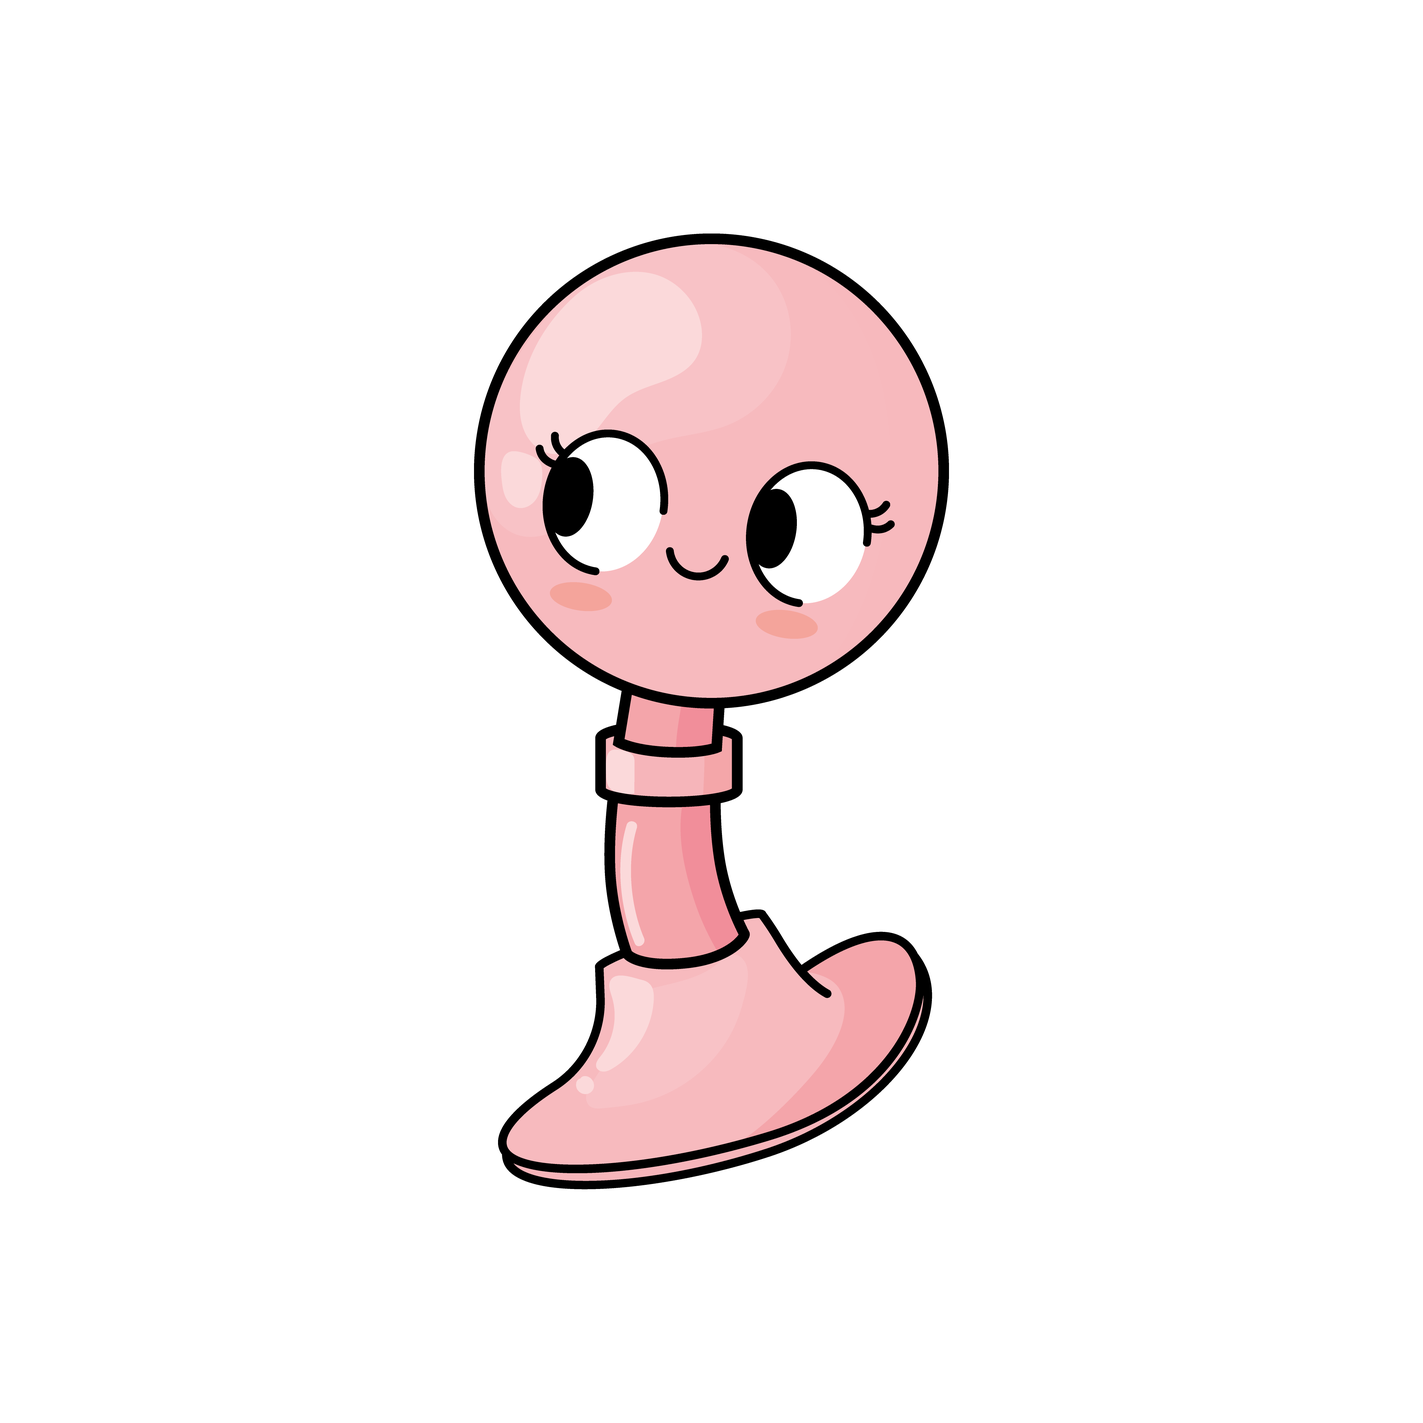
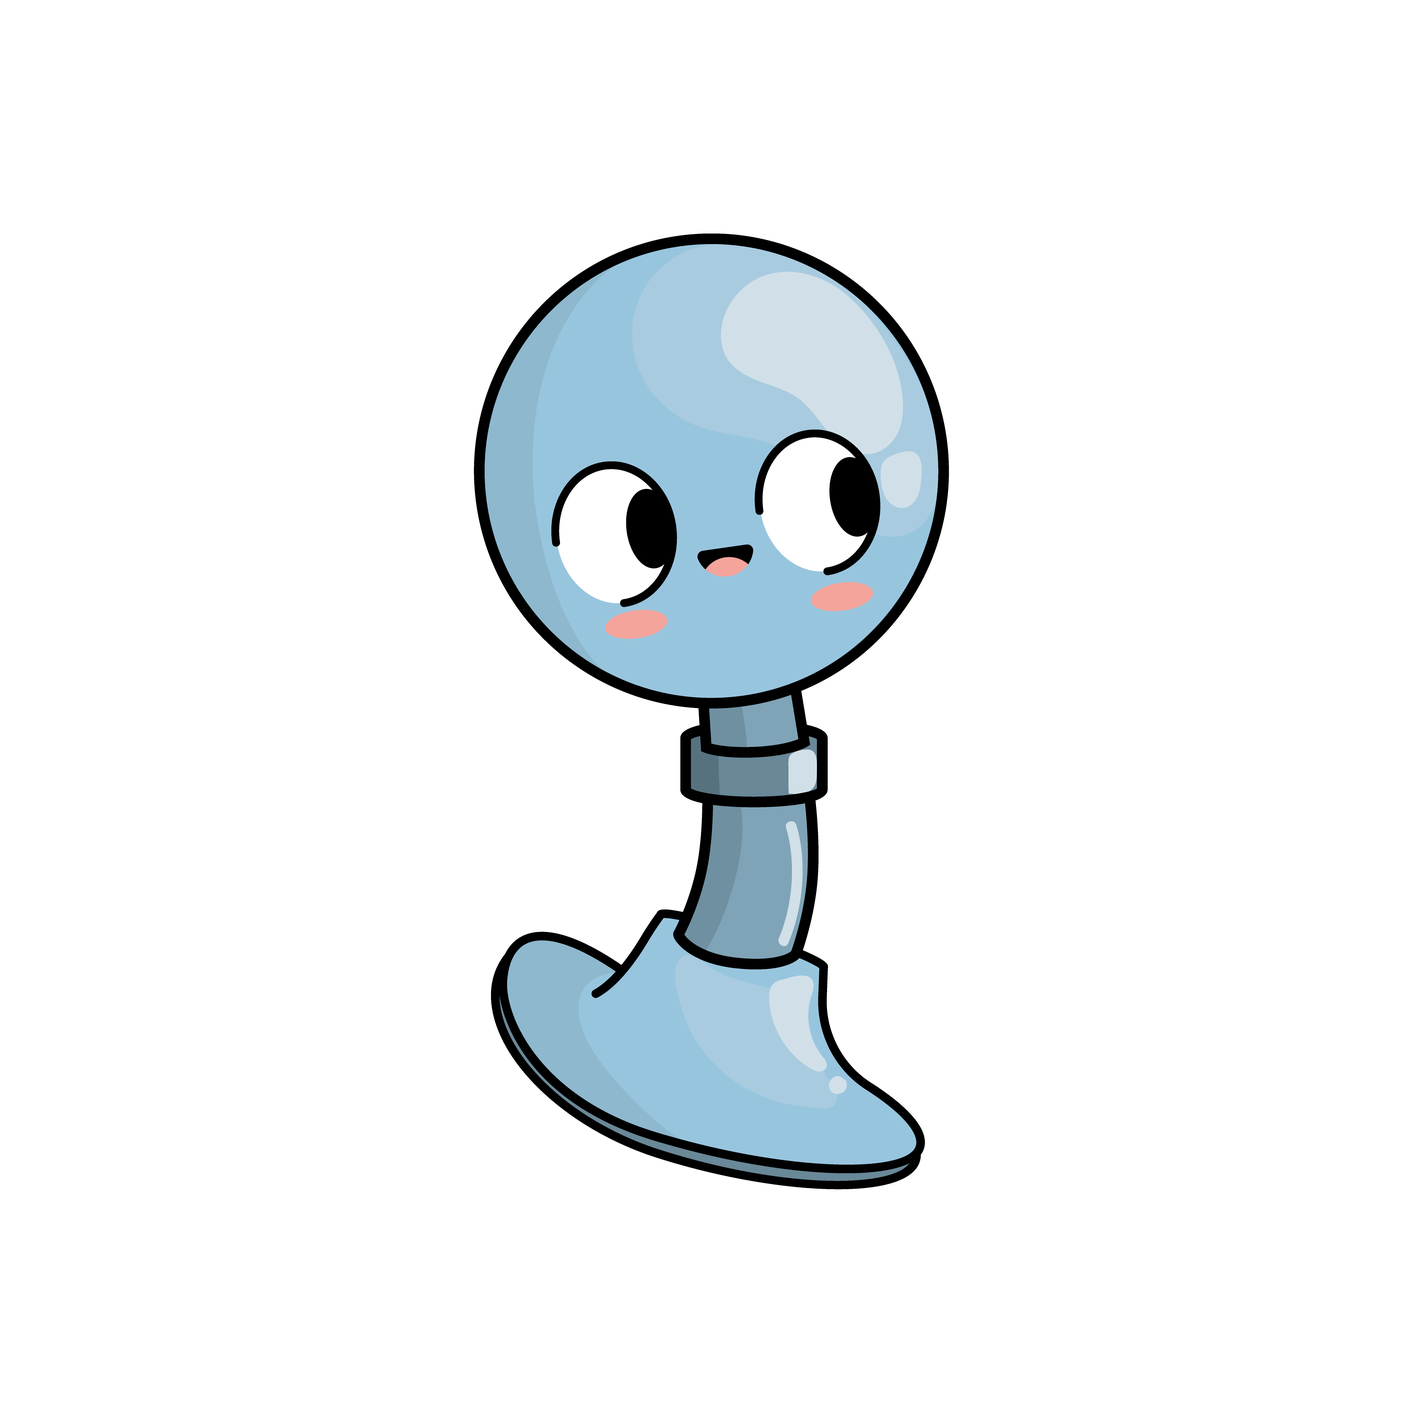
dash-edu-genero-username

Changed region(s): [[0.3422, 0.1556, 0.6844, 0.84]]

diff --git a/dashboard/index.html b/dashboard/index.html
@@ -82,7 +82,7 @@
                     <input
                         type="text"
                         id="user-search"
-                        placeholder="Escribe el Nickname de Lichess o el Nombre..."
+                        placeholder="Escribe el usuario de Lichess..."
                         class="block w-full pl-4 pr-10 py-3 text-lg font-semibold text-gray-700 bg-indigo-50 border-2 border-indigo-200 rounded-xl focus:outline-none focus:ring-4 focus:ring-indigo-300 focus:border-indigo-400 appearance-none transition-colors"
                     >
                     <div id="search-suggestions" class="absolute z-10 w-full mt-2 bg-white border border-gray-200 rounded-xl shadow-xl max-h-60 overflow-y-auto hidden">
@@ -108,10 +108,12 @@
                     </div>
                     <div class="text-center sm:text-left">
                         <h2 id="player-name" class="text-3xl font-bold text-purple-700">Jugador Seleccionado</h2>
-                        <a id="player-link" href="#" target="_blank" class="text-purple-400 font-semibold hover:text-purple-600 transition-colors">Ver en Lichess ↗</a>
+                        <!-- Enlace discreto a Lichess -->
+                        <a id="player-link" href="#" target="_blank" class="text-sm text-purple-400 font-medium hover:text-purple-600 transition-colors bg-purple-50 px-3 py-1 rounded-full mt-2 inline-block">
+                            Ver perfil en Lichess ↗
+                        </a>
                         <div class="mt-2 flex gap-2 justify-center sm:justify-start">
                             <span class="px-3 py-1 bg-purple-100 text-purple-600 rounded-full text-sm font-bold border border-purple-200">Novato</span>
-                            <!-- Aquí se podrían agregar más insignias dinámicas -->
                         </div>
                     </div>
                 </div>
@@ -134,46 +136,42 @@
         const ZONES_CONTAINER_ID = 'zones-container';
         const CSV_BASE_FILE = 'base.csv';
         const CSV_METAS_FILE = 'metas.csv';
-        const TOTAL_AVATARS = 18; // Número total de imágenes peoncitos_X.png
+        
+        // Configuración de avatares
+        const TOTAL_VARIANTS = 9; // 9 variantes por género
 
         let trackingData = [];
 
-        // Definición de métricas agrupadas por el nuevo sistema
+        // Definición de métricas 
         const metricDefinitions = [
-            // type: 'rating' usa la lógica de progreso directo (Current vs Goal)
-            // type: 'count' usa la lógica de trabajo realizado (Work Done vs Total Work)
-            
-            // --- ZONA 1: Rendimiento en Vivo (Partidas y Rating) ---
-            // SUB-ZONA 1.1: Rayo Veloz (Bullet y Blitz)
+            // ZONA 1: Rendimiento en Vivo
             { id: 'bullet_rating', name: 'Bullet Rating', emoji: '🚅', csvKey: 'Bullet', apiPath: 'perfs.bullet.rating', theme: 'theme-bullet', mainZone: 'Rendimiento en Vivo', subZone: 'Rayo Veloz', type: 'rating' },
             { id: 'bullet_games', name: 'Partidas Bullet', emoji: '🎮', csvKey: 'Bullet_Games', apiPath: 'perfs.bullet.games', theme: 'theme-bullet', mainZone: 'Rendimiento en Vivo', subZone: 'Rayo Veloz', type: 'count' },
             { id: 'blitz_rating', name: 'Blitz Rating', emoji: '⚡', csvKey: 'Blitz', apiPath: 'perfs.blitz.rating', theme: 'theme-blitz', mainZone: 'Rendimiento en Vivo', subZone: 'Rayo Veloz', type: 'rating' },
             { id: 'blitz_games', name: 'Partidas Blitz', emoji: '🎮', csvKey: 'Blitz_Games', apiPath: 'perfs.blitz.games', theme: 'theme-blitz', mainZone: 'Rendimiento en Vivo', subZone: 'Rayo Veloz', type: 'count' },
             
-            // SUB-ZONA 1.2: Ritmo Reflexivo (Rapid y Classical)
+            // Ritmo Reflexivo
             { id: 'rapid_rating', name: 'Rapid Rating', emoji: '🐢', csvKey: 'Rapid', apiPath: 'perfs.rapid.rating', theme: 'theme-rapid', mainZone: 'Rendimiento en Vivo', subZone: 'Ritmo Reflexivo', type: 'rating' },
             { id: 'rapid_games', name: 'Partidas Rapid', emoji: '🎮', csvKey: 'Rapid_Games', apiPath: 'perfs.rapid.games', theme: 'theme-rapid', mainZone: 'Rendimiento en Vivo', subZone: 'Ritmo Reflexivo', type: 'count' },
             { id: 'classical_rating', name: 'Classical Rating', emoji: '🕰', csvKey: 'Classical', apiPath: 'perfs.classical.rating', theme: 'theme-classical', mainZone: 'Rendimiento en Vivo', subZone: 'Ritmo Reflexivo', type: 'rating' },
             { id: 'classical_games', name: 'Partidas Classical', emoji: '🎮', csvKey: 'Classical_Games', apiPath: 'perfs.classical.games', theme: 'theme-classical', mainZone: 'Rendimiento en Vivo', subZone: 'Ritmo Reflexivo', type: 'count' },
 
-            // --- ZONA 2: Gimnasio Cerebral (Táctica y Agudeza Mental) ---
-            // SUB-ZONA 2.1: Foco Profundo (Puzzle y Streak)
+            // ZONA 2: Gimnasio Cerebral
             { id: 'puzzle_rating', name: 'Puzzle Rating', emoji: '🧩', csvKey: 'Puzzle_Rating', apiPath: 'perfs.puzzle.rating', theme: 'theme-puzzle', mainZone: 'Gimnasio Cerebral', subZone: 'Foco Profundo', type: 'rating' },
             { id: 'puzzles_played', name: 'Puzzles Resueltos', emoji: '✅', csvKey: 'Puzzles_Played', apiPath: 'perfs.puzzle.games', theme: 'theme-puzzle', mainZone: 'Gimnasio Cerebral', subZone: 'Foco Profundo', type: 'count' },
-            { id: 'streak_score', name: 'Racha Máxima (Streak)', emoji: '🔥', csvKey: 'Streak', apiPath: 'perfs.streak.score', theme: 'theme-fun', mainZone: 'Gimnasio Cerebral', subZone: 'Foco Profundo', type: 'rating' }, // Score puede verse como rating/progreso directo
+            { id: 'streak_score', name: 'Racha Máxima (Streak)', emoji: '🔥', csvKey: 'Streak', apiPath: 'perfs.streak.score', theme: 'theme-fun', mainZone: 'Gimnasio Cerebral', subZone: 'Foco Profundo', type: 'rating' },
             { id: 'streak_attempts', name: 'Intentos Racha', emoji: '🔄', csvKey: 'Streak_Attempts', apiPath: 'perfs.streak.runs', theme: 'theme-fun', mainZone: 'Gimnasio Cerebral', subZone: 'Foco Profundo', type: 'count' },
             
-            // SUB-ZONA 2.2: Reacción Extrema (Racer y Storm)
-            { id: 'racer_score', name: 'Racer Record', emoji: '🏎', csvKey: 'Racer', apiPath: 'perfs.racer.score', theme: 'theme-fun', mainZone: 'Gimnasio Cerebral', subZone: 'Reacción Extrema', type: 'rating' }, // Score puede verse como rating/progreso directo
+            // Reacción Extrema
+            { id: 'racer_score', name: 'Racer Record', emoji: '🏎', csvKey: 'Racer', apiPath: 'perfs.racer.score', theme: 'theme-fun', mainZone: 'Gimnasio Cerebral', subZone: 'Reacción Extrema', type: 'rating' },
             { id: 'racer_attempts', name: 'Carreras Jugadas', emoji: '🏁', csvKey: 'Racer_Attempts', apiPath: 'perfs.racer.runs', theme: 'theme-fun', mainZone: 'Gimnasio Cerebral', subZone: 'Reacción Extrema', type: 'count' },
-            { id: 'storm_score', name: 'Storm Record', emoji: '🌪', csvKey: 'Storm', apiPath: 'perfs.storm.score', theme: 'theme-fun', mainZone: 'Gimnasio Cerebral', subZone: 'Reacción Extrema', type: 'rating' }, // Score puede verse como rating/progreso directo
+            { id: 'storm_score', name: 'Storm Record', emoji: '🌪', csvKey: 'Storm', apiPath: 'perfs.storm.score', theme: 'theme-fun', mainZone: 'Gimnasio Cerebral', subZone: 'Reacción Extrema', type: 'rating' },
             { id: 'storm_attempts', name: 'Intentos Storm', emoji: '🔄', csvKey: 'Storm_Attempts', apiPath: 'perfs.storm.runs', theme: 'theme-fun', mainZone: 'Gimnasio Cerebral', subZone: 'Reacción Extrema', type: 'count' },
         ];
 
         // --- Funciones de Utilidad ---
 
         async function fetchAndParseCSV(url) {
-            // Implementación de carga de CSV (sin cambios, ya que funciona)
             const response = await fetch(url);
             if (!response.ok) throw new Error(`No se pudo encontrar el archivo: ${url}`);
             const text = await response.text();
@@ -193,7 +191,8 @@
                 const entry = {};
                 headers.forEach((header, index) => {
                     let val = values[index];
-                    if (header !== 'Nombre' && header !== 'Lichess' && !isNaN(val) && val !== '') {
+                    // Convertir a número si es posible, excepto Nombre, Lichess y Género
+                    if (header !== 'Nombre' && header !== 'Lichess' && header !== 'Género' && !isNaN(val) && val !== '') {
                         val = Number(val);
                     }
                     entry[header] = val;
@@ -230,18 +229,25 @@
             }
         }
 
-        // Función para generar un avatar aleatorio
-        function getAvatarUrl(userId) {
-            // Usamos el userId para generar un número pseudo-aleatorio consistente
-            // Esto asegura que cada jugador tenga el mismo avatar cada vez que carga la página
+        function getAvatarUrl(userId, gender) {
+            // Generar hash consistente para el usuario
             let hash = 0;
             for (let i = 0; i < userId.length; i++) {
                 const char = userId.charCodeAt(i);
                 hash = ((hash<<5)-hash)+char;
-                hash |= 0; // Convert to 32bit integer
+                hash |= 0; 
             }
-            const avatarIndex = (Math.abs(hash) % TOTAL_AVATARS) + 1;
-            return `peoncitos/peoncitos_${avatarIndex}.png`;
+            // Obtenemos un número del 1 al 9
+            const avatarIndex = (Math.abs(hash) % TOTAL_VARIANTS) + 1;
+
+            if (gender === 'f') {
+                return `peoncitas/peoncitas_${avatarIndex}.png`;
+            } else if (gender === 'm') {
+                return `peoncitos/peoncitos_${avatarIndex}.png`;
+            } else {
+                // Default: peoncito 1 de carpeta peoncitos si no hay género
+                return `peoncitos/peoncitos_1.png`;
+            }
         }
 
         // --- Lógica del Buscador ---
@@ -250,25 +256,30 @@
             const suggestionsDiv = document.getElementById('search-suggestions');
             suggestionsDiv.innerHTML = '';
 
-            // Solo mostrar sugerencias después de 3 letras
             if (query.length < 3) {
                 suggestionsDiv.classList.add('hidden');
                 return;
             }
 
+            // Filtrar SOLO por ID de Lichess
             const matchedUsers = trackingData.filter(user => 
-                user.userId.includes(query) || user.name.toLowerCase().includes(query)
+                user.userId.includes(query)
             ).slice(0, 5); 
 
             if (matchedUsers.length > 0) {
                 suggestionsDiv.classList.remove('hidden');
                 matchedUsers.forEach(user => {
                     const suggestion = document.createElement('div');
-                    suggestion.className = 'p-3 hover:bg-indigo-100 cursor-pointer border-b border-indigo-100 last:border-b-0 transition-colors';
-                    suggestion.textContent = `${user.name} (${user.userId})`;
-                    suggestion.dataset.userId = user.userId;
+                    suggestion.className = 'p-3 hover:bg-indigo-100 cursor-pointer border-b border-indigo-100 last:border-b-0 transition-colors flex justify-between';
+                    
+                    // Mostrar Solo ID de Lichess
+                    suggestion.innerHTML = `
+                        <span class="font-bold text-gray-800">${user.userId}</span>
+                    `;
+                    
                     suggestion.onclick = () => {
-                        document.getElementById(SEARCH_INPUT_ID).value = user.name;
+                        // Al seleccionar, ponemos el ID en el input
+                        document.getElementById(SEARCH_INPUT_ID).value = user.userId;
                         suggestionsDiv.classList.add('hidden');
                         loadUserProfile(user.userId);
                     };
@@ -279,7 +290,6 @@
             }
         }
 
-        // Ocultar sugerencias al hacer clic fuera
         document.addEventListener('click', (e) => {
             const searchContainer = document.querySelector('.max-w-xl.mx-auto');
             const suggestionsDiv = document.getElementById('search-suggestions');
@@ -301,14 +311,14 @@
 
                 const globalGoals = goalsData.length > 0 ? goalsData[0] : {};
 
-                // Fusionar datos
                 const dataMap = {};
                 initialData.forEach(row => {
-                    const userId = row['Lichess']?.toLowerCase();
+                    const userId = row['Lichess']?.toLowerCase().trim();
                     if(userId) {
                         dataMap[userId] = {
                             userId: userId,
-                            name: row['Nombre'] || userId,
+                            // Nombre se ignora visualmente, pero guardamos el objeto completo row por si acaso
+                            gender: row['Género'] ? row['Género'].toLowerCase().trim() : null,
                             initials: row,
                             goals: globalGoals
                         };
@@ -318,7 +328,6 @@
                 trackingData = Object.values(dataMap);
 
                 updateStatus('ready');
-                
                 document.getElementById(SEARCH_INPUT_ID).addEventListener('input', handleSearchInput);
 
             } catch (err) {
@@ -332,7 +341,7 @@
             if (!user) return;
 
             document.getElementById(DASHBOARD_ID).classList.add('hidden');
-            updateStatus('loading', `Conectando con Lichess para ver a ${user.name}...`);
+            updateStatus('loading', `Conectando con Lichess para ver a ${user.userId}...`);
 
             try {
                 const response = await fetch(`${LICHESS_API_BASE}${userId}`);
@@ -349,16 +358,19 @@
         }
 
         function createCardHTML(metric, liveData, user, hasCelebrationRef) {
-            // OBTENER Y CONVERTIR VALORES A NÚMEROS
             const initialVal = Number(user.initials[metric.csvKey]) || 0;
             const goalVal = Number(user.goals[metric.csvKey]) || 0;
             let currentVal = Number(getNestedValue(liveData, metric.apiPath)) || 0;
+
+            // --- REGLA ESPECIAL: RATING 1500 = 0 ---
+            if (metric.type === 'rating' && currentVal === 1500) {
+                currentVal = 0;
+            }
             
             let percent = 0;
             let distDescription = '';
             
             if (metric.type === 'rating') {
-                // Lógica de Rating (Progreso Directo)
                 const totalGoalDist = goalVal - initialVal;
                 const currentDist = currentVal - initialVal;
                 
@@ -367,30 +379,22 @@
                 } else if (currentVal >= goalVal && goalVal > 0) {
                     percent = 100; 
                 }
-                
                 distDescription = `Progreso real: ${Math.max(0, percent).toFixed(2)}% (${currentDist} de ${totalGoalDist} necesarios)`;
 
             } else if (metric.type === 'count') {
-                // Lógica de Conteo (Trabajo Realizado)
                 const totalWorkNeeded = goalVal - initialVal;
                 const workDone = currentVal - initialVal;
 
                 if (totalWorkNeeded > 0) {
                     percent = (workDone / totalWorkNeeded) * 100;
                 } else if (workDone >= 0 && goalVal > 0) {
-                     // Si la meta ya se superó en la base, o si no hay meta incremental
                     percent = 100; 
                 }
-
-                distDescription = `Trabajo Realizado: ${Math.max(0, percent).toFixed(2)}% (${workDone} partidas/intentos completados de ${totalWorkNeeded} necesarios)`;
+                distDescription = `Trabajo Realizado: ${Math.max(0, percent).toFixed(2)}% (${workDone} completados de ${totalWorkNeeded})`;
             }
 
             let visualPercent = Math.max(0, Math.min(100, percent));
-            
-            if (percent > 0 && visualPercent > 0 && visualPercent < 5) {
-                visualPercent = 5;
-            }
-            
+            if (percent > 0 && visualPercent > 0 && visualPercent < 5) visualPercent = 5;
             if (percent >= 100) hasCelebrationRef.value = true;
 
             let barColorClass = 'bg-indigo-400';
@@ -425,38 +429,29 @@
         }
 
         function renderDashboard(user, liveData) {
-            // Header del Jugador
-            document.getElementById('player-name').textContent = user.name;
+            // Mostrar solo ID de Lichess
+            document.getElementById('player-name').textContent = user.userId;
             document.getElementById('player-link').href = `https://lichess.org/@/${user.userId}`;
             
-            // Avatar
             const avatarImg = document.getElementById('player-avatar');
-            const customAvatarUrl = getAvatarUrl(user.userId);
-            
-            // Asignar el avatar del "peoncito" y un fallback
+            // Usar lógica de género
+            const customAvatarUrl = getAvatarUrl(user.userId, user.gender);
             avatarImg.src = customAvatarUrl;
+            
+            // Si la imagen falla, mostrar peoncito por defecto (peoncito 1) en lugar del logo de Lichess
             avatarImg.onerror = () => {
-                // Si la imagen del peoncito falla (no está subida), usa el avatar de lichess por defecto
-                avatarImg.src = 'https://lichess1.org/assets/images/missing_avatar.svg';
+                avatarImg.src = 'peoncitos/peoncitos_1.png';
             };
 
-
             const zonesContainer = document.getElementById(ZONES_CONTAINER_ID);
-            zonesContainer.innerHTML = ''; // Limpiar
+            zonesContainer.innerHTML = ''; 
             
-            let hasCelebration = { value: false }; // Usamos un objeto para pasar por referencia
+            let hasCelebration = { value: false }; 
             let fullHtml = `<div class="space-y-10">`;
 
-            // 1. Agrupar métricas por Zonas
             const groupedMetrics = {
-                'Rendimiento en Vivo': {
-                    'Rayo Veloz': [], 
-                    'Ritmo Reflexivo': []
-                },
-                'Gimnasio Cerebral': {
-                    'Foco Profundo': [], 
-                    'Reacción Extrema': []
-                }
+                'Rendimiento en Vivo': { 'Rayo Veloz': [], 'Ritmo Reflexivo': [] },
+                'Gimnasio Cerebral': { 'Foco Profundo': [], 'Reacción Extrema': [] }
             };
             
             metricDefinitions.forEach(metric => {
@@ -465,20 +460,14 @@
                 }
             });
 
-            // 2. Renderizar Zonas y Sub-Zonas
             for (const [mainZoneTitle, subZones] of Object.entries(groupedMetrics)) {
-                // Definir color de borde de la zona principal
                 const mainZoneColor = mainZoneTitle === 'Rendimiento en Vivo' ? 'border-sky-400' : 'border-pink-400';
-
-                // Main Zone Header
                 fullHtml += `
                     <section class="bg-white p-6 rounded-3xl shadow-xl border-t-8 ${mainZoneColor}">
                         <h3 class="text-3xl font-extrabold text-center text-purple-700 mb-6 py-2 border-b-2 border-purple-200">${mainZoneTitle}</h3>
                         <div class="space-y-8">
                 `;
-
                 for (const [subZoneTitle, metrics] of Object.entries(subZones)) {
-                    // Sub-Zone Header
                     fullHtml += `
                         <div>
                             <h4 class="text-xl font-bold text-indigo-600 mb-4 ml-2 flex items-center gap-2 border-b border-indigo-100 pb-1">
@@ -486,54 +475,31 @@
                             </h4>
                             <div class="grid grid-cols-1 sm:grid-cols-2 gap-4">
                     `;
-                    
-                    // Metric Cards
                     metrics.forEach(metric => {
                         fullHtml += createCardHTML(metric, liveData, user, hasCelebration);
                     });
-
-                    fullHtml += `
-                            </div>
-                        </div>
-                    `;
+                    fullHtml += `</div></div>`;
                 }
-                
-                fullHtml += `
-                        </div>
-                    </section>
-                `;
+                fullHtml += `</div></section>`;
             }
 
             fullHtml += `</div>`;
             zonesContainer.innerHTML = fullHtml;
 
-            // 3. Activar Animación de las Barras
             const allBars = zonesContainer.querySelectorAll('[data-percent]');
             requestAnimationFrame(() => {
                 requestAnimationFrame(() => {
                     allBars.forEach(bar => {
-                        const percent = bar.getAttribute('data-percent');
-                        bar.style.width = `${percent}%`;
+                        bar.style.width = `${bar.getAttribute('data-percent')}%`;
                     });
                 });
             });
 
-
-            // 4. Celebración con Confeti
-            if (hasCelebration.value) {
-                if (typeof confetti !== 'undefined') {
-                    confetti({
-                        particleCount: 100,
-                        spread: 70,
-                        origin: { y: 0.6 }
-                    });
-                } else {
-                    console.warn("La función confetti no está definida. No se mostrará la animación de celebración.");
-                }
+            if (hasCelebration.value && typeof confetti !== 'undefined') {
+                confetti({ particleCount: 100, spread: 70, origin: { y: 0.6 } });
             }
         }
 
-        // Iniciar App cuando carga
         document.addEventListener('DOMContentLoaded', initApp);
 
     </script>
